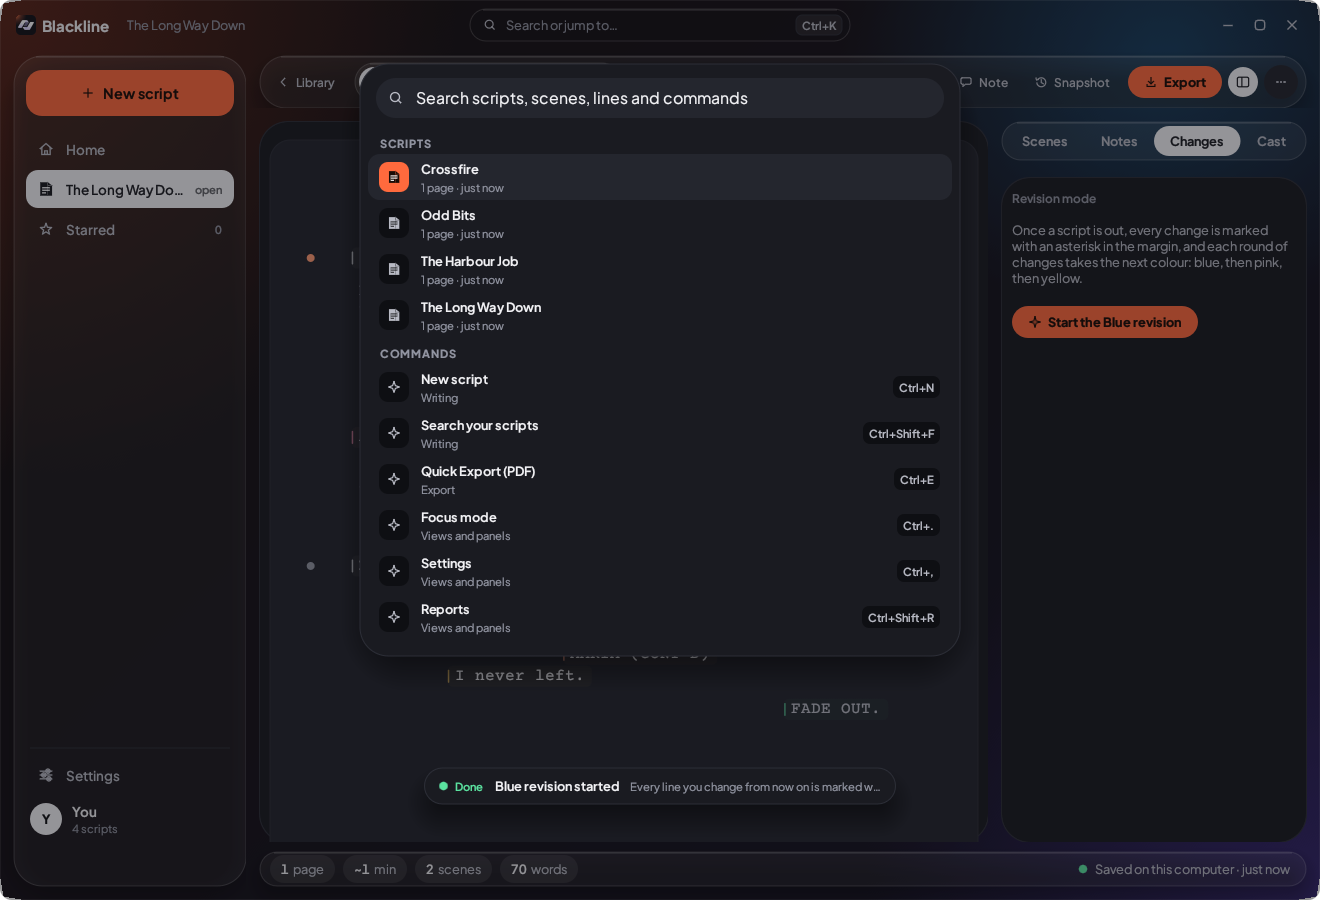
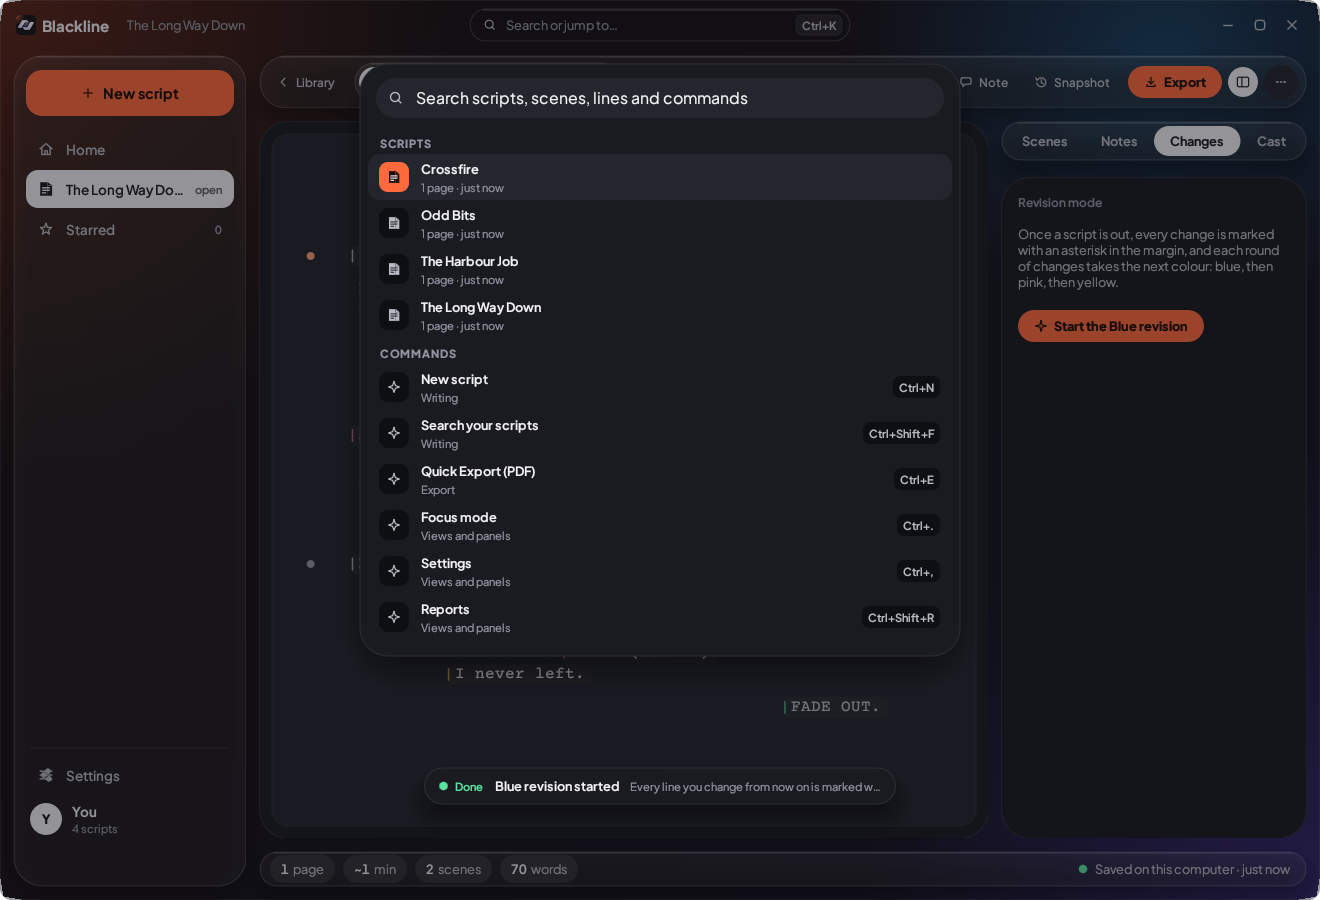
Shadows that aren't cut off, a paper that sits inside its stage, curves that nest
Shell shadows are drawn in one pass under every panel, so the sidebar, the
toolbar and status pills, the tabs and the stage keep their whole shadow. The
page is a fixed card 12 points inside the stage with a radius that follows
the stage's, and the script scrolls inside it. Storyline columns sit on the
wallpaper beside the sidebar and tabs instead of inside a second frame. The
tab panels get 16 points of padding with rows rounded to match, and every gap
in the shell is the same 14 points.

Changed region(s): [[0.7455, 0.2178, 0.9629, 0.4044], [0.5902, 0.7778, 0.6523, 0.8089], [0.3727, 0.7467, 0.4348, 0.7778]]

diff --git a/src/app.rs b/src/app.rs
@@ -231,6 +231,8 @@ pub struct App {
     title_sheet: bool,
     title_sheet_rect: Rect,
     palette: Option<palette::Palette>,
+    shadows: Vec<(Rect, f32, ncf::theme::Lift)>,
+    shadows_drawn: Vec<(Rect, f32, ncf::theme::Lift)>,
     palette_rect: Rect,
     palette_rows_drawn: Vec<Rect>,
     home_starred: bool,
@@ -406,6 +408,8 @@ impl App {
             title_sheet: false,
             title_sheet_rect: Rect::NOTHING,
             palette: None,
+            shadows: Vec::new(),
+            shadows_drawn: Vec::new(),
             palette_rect: Rect::NOTHING,
             palette_rows_drawn: Vec::new(),
             home_starred: false,
@@ -1519,11 +1523,11 @@ impl App {
                         }
                         next_act += 1;
                     }
-                    let w = ui.available_width() - 4.0;
+                    let w = ui.available_width();
                     let (rect, resp) = ui.allocate_exact_size(Vec2::new(w, 54.0), Sense::click());
                     let is_live = live == Some(i);
                     let hot = anim::ease(ui.ctx(), resp.id, resp.hovered(), anim::HOVER);
-                    let round = egui::Rounding::same(ncf::theme::R_SM);
+                    let round = egui::Rounding::same(theme::ISLAND_ROW_R);
                     if is_live {
                         ui.painter().rect_filled(rect, round, ncf::theme::css_rgba(p.primary.r(), p.primary.g(), p.primary.b(), if p.dark { 40 } else { 36 }));
                     } else if hot > 0.02 {
@@ -1795,6 +1799,15 @@ impl App {
         egui::CentralPanel::default()
             .frame(egui::Frame::none().inner_margin(egui::Margin { left: theme::GAP, right, top: theme::GAP, bottom: 0.0 }))
             .show(ctx, |ui| {
+                if mode == Mode::Cards && self.settings.cards_columns {
+                    let island = ui.max_rect();
+                    self.page_rect = island;
+                    let mut ui = slide_in(ui, island, arrive, 24.0);
+                    self.cards_page(&mut ui);
+                    return;
+                }
+                let stage = ui.max_rect();
+                self.cast_shadow(stage, theme::R_SHEET, theme::sheet_lift());
                 theme::sheet_frame()
                     .inner_margin(egui::Margin::ZERO)
                     .show(ui, |ui| {
@@ -1818,17 +1831,28 @@ impl App {
         let labels = std::mem::take(&mut self.layout.labels);
         let changes = std::mem::take(&mut self.layout.changes);
         let voices = self.voices();
+        let inner = ui.max_rect().shrink(theme::STAGE_PAD);
+        let col_w = editor::column_width(ui, self.ed.font_px).min(inner.width() - 16.0);
+        let pad_w = ((inner.width() - col_w) * 0.5).max(8.0);
+        let paper = Rect::from_min_max(
+            Pos2::new(inner.left() + (pad_w - 76.0).max(0.0), inner.top()),
+            Pos2::new(inner.left() + (pad_w + col_w + 56.0).min(inner.width()), inner.bottom()),
+        );
+        ui.painter().add(theme::paper_sheet(paper));
+        let mut stage = ui.new_child(egui::UiBuilder::new().max_rect(inner).layout(egui::Layout::top_down(egui::Align::Min)));
+        let ui = &mut stage;
         egui::ScrollArea::vertical()
             .id_salt("ns-write")
             .auto_shrink([false; 2])
             .show(ui, |ui| {
+                let view_clip = ui.clip_rect();
+                let lip = theme::PAPER_R * 0.35;
+                ui.set_clip_rect(Rect::from_min_max(Pos2::new(view_clip.left(), view_clip.top().max(paper.top() + lip)), Pos2::new(view_clip.right(), view_clip.bottom().min(paper.bottom() - lip))));
                 let avail = ui.available_width();
                 let col = editor::column_width(ui, self.ed.font_px).min(avail - 16.0);
                 let pad = ((avail - col) * 0.5).max(8.0);
 
-                let sheet = ui.painter().add(egui::Shape::Noop);
-                let top = ui.cursor().min.y + 18.0;
-                ui.add_space(18.0);
+                ui.add_space(4.0);
                 changed |= self.banner(ui, avail, pad);
                 ui.add_space(14.0);
 
@@ -1863,12 +1887,6 @@ impl App {
                         ui.add_space(60.0);
                     });
                 });
-                let left = ui.max_rect().left();
-                let r = Rect::from_min_max(
-                    Pos2::new(left + (pad - 76.0).max(10.0), top),
-                    Pos2::new(left + (pad + col + 56.0).min(avail - 10.0), ui.cursor().min.y),
-                );
-                ui.painter().set(sheet, theme::paper_sheet(r));
                 ui.add_space(28.0);
             });
         self.layout.page_starts = starts;
@@ -3641,6 +3659,7 @@ impl App {
         }
 
         chrome::backdrop(ctx, self.window_ground());
+        self.paint_shadows(ctx);
         self.launch(ctx);
 
         if self.tour.is_some() {
@@ -3697,6 +3716,7 @@ impl App {
         self.popovers(ctx);
         self.title_sheet(ctx);
         self.palette_overlay(ctx);
+        self.settle_shadows(ctx);
         self.tour_overlay(ctx);
         self.debug_panel(ctx);
         chrome::resize_handles(ctx);

diff --git a/src/app/shell.rs b/src/app/shell.rs
@@ -15,7 +15,7 @@ pub const RAIL_W: f32 = 64.0;
 pub const FOLD_BELOW: f32 = 1180.0;
 pub const INSPECTOR_W: f32 = 318.0;
 pub const TOOLBAR_H: f32 = 58.0;
-pub const STATUS_H: f32 = 58.0;
+pub const STATUS_H: f32 = 34.0 + 2.0 * theme::GAP;
 pub const TABS: [&str; 4] = ["Scenes", "Notes", "Changes", "Cast"];
 
 impl App {
@@ -39,7 +39,8 @@ impl App {
             .show(ctx, |ui| {
                 let rect = ui.max_rect();
                 self.side_rect = rect;
-                ncf::theme::glass(ui.painter(), rect, ncf::theme::R_LG);
+                self.cast_shadow(rect, ncf::theme::R_LG, ncf::theme::Lift::Float);
+                theme::glass_flat(ui.painter(), rect, ncf::theme::R_LG);
                 let inner = rect.shrink2(Vec2::new(if folded { 10.0 } else { 12.0 }, 14.0));
                 let mut ui = ui.new_child(egui::UiBuilder::new().max_rect(inner).layout(Layout::top_down(Align::Min)));
                 ui.spacing_mut().item_spacing.y = 2.0;
@@ -246,7 +247,8 @@ impl App {
             .frame(egui::Frame::none().inner_margin(egui::Margin { left: theme::GAP, right: theme::GAP, top: 6.0, bottom: 0.0 }))
             .show(ctx, |ui| {
                 let rect = ui.max_rect();
-                ncf::theme::glass(ui.painter(), rect, rect.height() * 0.5);
+                self.cast_shadow(rect, rect.height() * 0.5, ncf::theme::Lift::Float);
+                theme::glass_flat(ui.painter(), rect, rect.height() * 0.5);
                 let inner = rect.shrink2(Vec2::new(8.0, 6.0));
                 let mut ui = ui.new_child(egui::UiBuilder::new().max_rect(inner).layout(Layout::left_to_right(Align::Center)));
                 self.toolbar_row(&mut ui);
@@ -380,11 +382,12 @@ impl App {
         egui::TopBottomPanel::bottom("ns-status")
             .exact_height(STATUS_H)
             .show_separator_line(false)
-            .frame(egui::Frame::none().inner_margin(egui::Margin { left: theme::GAP, right: theme::GAP, top: 10.0, bottom: theme::GAP }))
+            .frame(egui::Frame::none().inner_margin(egui::Margin::same(theme::GAP)))
             .show(ctx, |ui| {
                 let rect = ui.max_rect();
                 self.status_rect = rect;
-                ncf::theme::glass(ui.painter(), rect, rect.height() * 0.5);
+                self.cast_shadow(rect, rect.height() * 0.5, ncf::theme::Lift::Float);
+                theme::glass_flat(ui.painter(), rect, rect.height() * 0.5);
                 let inner = rect.shrink2(Vec2::new(10.0, 0.0));
                 let mut ui = ui.new_child(egui::UiBuilder::new().max_rect(inner).layout(Layout::left_to_right(Align::Center)));
                 self.status_row(&mut ui);
@@ -452,6 +455,27 @@ impl App {
         }
     }
 
+    pub(super) fn cast_shadow(&mut self, rect: Rect, radius: f32, lift: ncf::theme::Lift) {
+        if lift != ncf::theme::Lift::Flat && rect.is_positive() {
+            self.shadows.push((rect, radius, lift));
+        }
+    }
+
+    pub(super) fn paint_shadows(&mut self, ctx: &egui::Context) {
+        let painter = ctx.layer_painter(egui::LayerId::background());
+        for (rect, radius, lift) in &self.shadows_drawn {
+            ncf::theme::shadow(&painter, *rect, *radius, *lift);
+        }
+    }
+
+    pub(super) fn settle_shadows(&mut self, ctx: &egui::Context) {
+        let now = std::mem::take(&mut self.shadows);
+        if now != self.shadows_drawn {
+            self.shadows_drawn = now;
+            ctx.request_repaint();
+        }
+    }
+
     // inspector here---
     pub(super) fn inspector(&mut self, ctx: &egui::Context) {
         if !self.settings.show_scenes || self.focus_mode {
@@ -481,10 +505,12 @@ impl App {
                         self.save_settings();
                     }
                 }
-                self.aside_islands.push(Rect::from_min_max(top, Pos2::new(ui.max_rect().right(), ui.cursor().min.y)));
-                ui.add_space(10.0);
+                let tabs_rect = Rect::from_min_max(top, Pos2::new(ui.max_rect().right(), ui.cursor().min.y));
+                self.cast_shadow(tabs_rect, tabs_rect.height() * 0.5, ncf::theme::Lift::Float);
+                self.aside_islands.push(tabs_rect);
+                ui.add_space(theme::GAP - 4.0);
                 let r = theme::island_frame(ncf::theme::R_LG)
-                    .inner_margin(egui::Margin::symmetric(10.0, 12.0))
+                    .inner_margin(egui::Margin::same(theme::ISLAND_PAD))
                     .show(ui, |ui| {
                         ui.set_min_size(ui.available_size());
                         let room = Rect::from_min_size(ui.cursor().min, ui.available_size());
@@ -507,6 +533,7 @@ impl App {
                         ui.allocate_rect(room, Sense::hover());
                     });
                 self.left_rect = r.response.rect;
+                self.cast_shadow(r.response.rect, ncf::theme::R_LG, theme::island_lift());
                 self.aside_islands.push(r.response.rect);
             });
     }

diff --git a/src/theme.rs b/src/theme.rs
@@ -460,15 +460,33 @@ pub fn glass_plate(painter: &egui::Painter, rect: Rect, radius: f32, opacity: f3
     ncf::theme::glass(painter, rect, radius);
 }
 
+pub const STAGE_PAD: f32 = 12.0;
+pub const ISLAND_PAD: f32 = 16.0;
+pub const ISLAND_ROW_R: f32 = ncf::theme::R_LG - ISLAND_PAD;
+pub const PAPER_R: f32 = R_SHEET - STAGE_PAD;
+
+pub fn island_lift() -> ncf::theme::Lift {
+    if pal().dark { ncf::theme::Lift::Flat } else { ncf::theme::Lift::Rest }
+}
+
 pub fn island_frame(radius: f32) -> egui::Frame {
-    let lift = if pal().dark { ncf::theme::Lift::Flat } else { ncf::theme::Lift::Rest };
-    ncf::theme::surface_frame(radius, lift)
+    ncf::theme::surface_frame(radius, ncf::theme::Lift::Flat)
+}
+
+pub fn sheet_lift() -> ncf::theme::Lift {
+    if pal().dark { ncf::theme::Lift::Rest } else { ncf::theme::Lift::Float }
 }
 
 pub fn sheet_frame() -> egui::Frame {
     let p = pal();
-    let lift = if p.dark { ncf::theme::Lift::Rest } else { ncf::theme::Lift::Float };
-    ncf::theme::surface_frame(R_SHEET, lift).fill(if p.dark { p.solid } else { p.raised })
+    ncf::theme::surface_frame(R_SHEET, ncf::theme::Lift::Flat).fill(if p.dark { p.solid } else { p.raised })
+}
+
+pub fn glass_flat(painter: &egui::Painter, rect: Rect, radius: f32) {
+    let p = ncf::theme::pal();
+    painter.rect_filled(rect, Rounding::same(radius), p.glass);
+    painter.rect_stroke(rect.shrink(0.5), Rounding::same(radius), Stroke::new(1.0_f32, p.glass_line));
+    ncf::theme::glass_highlight(painter, rect, radius);
 }
 
 pub fn lift_shadow(painter: &egui::Painter, rect: Rect, radius: f32, lift: f32) {
@@ -628,7 +646,7 @@ pub fn font_page_bold(size: f32) -> egui::FontId {
 
 pub fn paper_sheet(rect: Rect) -> Shape {
     let p = pal();
-    let r = Rounding::same(ncf::theme::R_MD);
+    let r = Rounding::same(PAPER_R);
     let mut v = Vec::new();
     if !p.dark {
         v.push(Shape::Rect(ncf::theme::shadow_of(ncf::theme::Lift::Rest).as_shape(rect, r)));

diff --git a/src/uitests.rs b/src/uitests.rs
@@ -746,11 +746,12 @@ fn the_sidebar_page_and_tabs_line_up_with_the_status_pill() {
     let foot = h.app.debug_foot_rect();
     assert!(side.contains_rect(foot), "your name sits inside the sidebar: {foot:?} in {side:?}");
     assert!((side.bottom() - status.bottom()).abs() < 1.5, "sidebar ends at {}, status pill at {}", side.bottom(), status.bottom());
-    assert!((page.bottom() + 10.0 - status.top()).abs() < 1.5, "page ends at {}, status pill starts at {}", page.bottom(), status.top());
+    assert!((page.bottom() + crate::theme::GAP - status.top()).abs() < 1.5, "page ends at {}, status pill starts at {}", page.bottom(), status.top());
+    assert!((status.left() - side.right() - crate::theme::GAP).abs() < 1.5, "the same gap beside the sidebar");
     assert!(status.left() > side.right(), "the status pill sits right of the sidebar");
     let aside = h.app.debug_aside_rect();
     assert!((aside.bottom() - page.bottom()).abs() < 1.5);
-    assert!(aside.left() >= page.right() + 10.0, "a gap between the page and the tabs");
+    assert!((aside.left() - page.right() - crate::theme::GAP).abs() < 1.5, "one gap between the page and the tabs: {} to {}", page.right(), aside.left());
     h.app.debug_set_light(true);
     h.frames(2);
     assert!(!theme::pal().dark);

diff --git a/src/cards.rs b/src/cards.rs
@@ -905,7 +905,7 @@ pub fn columns(
     let lanes = lanes_of(doc, &scenes, &st.extra_lanes);
     st.extra_lanes.retain(|t| !scenes.iter().any(|s| s.tint == Some(*t)) && doc.meta.storyline(*t).is_none());
     let avail = ui.available_width();
-    let left = ui.min_rect().left() + 2.0;
+    let left = ui.min_rect().left();
     let n = lanes.len().max(1) as f32;
     let lane_w = ((avail - 4.0 - (n - 1.0) * LANE_GAP) / n).clamp(LANE_MIN, LANE_MAX.max(LANE_MIN));
     let full_w = n * lane_w + (n - 1.0) * LANE_GAP;
@@ -932,7 +932,7 @@ pub fn columns(
         }
         tallest = tallest.max(y - top);
     }
-    let floor = (ui.clip_rect().bottom() - top - 12.0).max(200.0);
+    let floor = (ui.clip_rect().bottom() - top - 1.0).max(200.0);
     let lane_h = (tallest + LANE_PAD).max(floor);
     let (_whole, _) = ui.allocate_exact_size(Vec2::new(full_w + 4.0, (top - top0) + lane_h + 16.0), Sense::hover());
 
